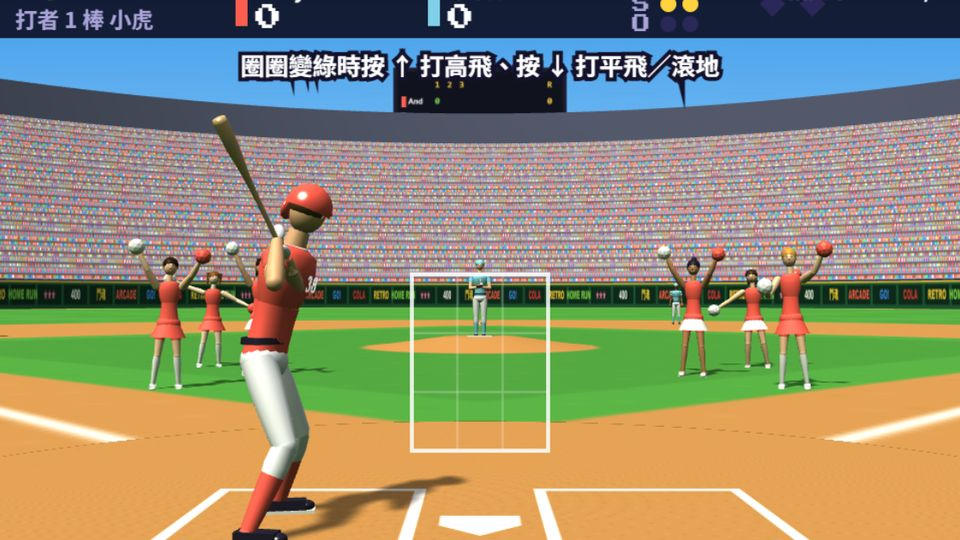
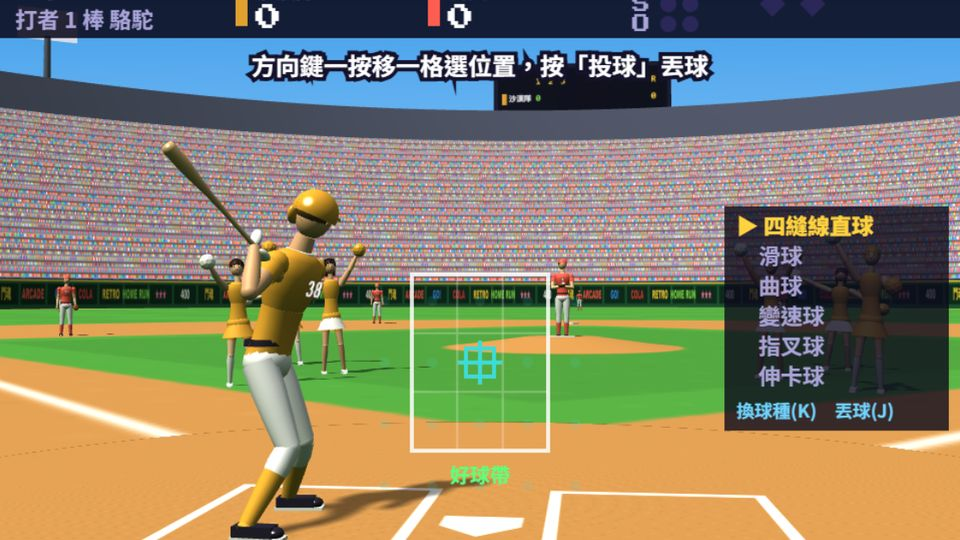
鬥魂棒球：打擊動作更自然（後腳原地轉、前腳踏步撐直、膝蓋內收、球棒斜放後肩）、每隊 2/4/7 棒左打、鏡頭偏向打者正面 (v316)

diff --git a/baseball3d.js b/baseball3d.js
@@ -97,13 +97,13 @@ function make(T,o){ const {W,H,ZX,ZY,ZW,ZH,L,fence,FPOS,BASE,kfBK}=o,PI=Math.PI,
     else { P.shL=[-.2,0,1.5+s*.55]; P.elL=[-.3,0,0]; P.shR=[-.2,0,-1.5+s*.55]; P.elR=[-.3,0,0]; if(big){ P.hipL=[-.08-.75*Math.max(0,-s),0,.1]; P.knL=[.12+.8*Math.max(0,-s),0,0]; } }
     H3.pose(E.h.J,P); E.g.rotation.y=yaw; E.g.visible=true; }
   let CH=[];
-  let teamKey='',FL=[],RN=[],BT=null,bat=null,pball=null,ghosts=[];
+  let teamKey='',FL=[],RN=[],BT=null,bat=null,pball=null,ghosts=[]; const MIR=new T.Group(); scene.add(MIR);
   function teamsFor(fc,bc){ const k=fc+'|'+bc; if(k===teamKey) return; teamKey=k;
-    for(const e of FL.concat(RN,BT?[BT]:[])) scene.remove(e.g);
+    for(const e of FL.concat(RN)) scene.remove(e.g); if(BT) MIR.remove(BT.g);
     for(const e of CH) scene.remove(e.g); CH=CHS.map((q,i)=>mkCheer(bc,q,i));
-    FL=FPOS.map((p,i)=>mkPlayer(fc,i,'fld')); RN=[0,1,2,3].map(i=>mkPlayer(bc,i+2,'run')); BT=mkPlayer(bc,5,'bat');
+    FL=FPOS.map((p,i)=>mkPlayer(fc,i,'fld')); RN=[0,1,2,3].map(i=>mkPlayer(bc,i+2,'run')); BT=mkPlayer(bc,5,'bat'); scene.remove(BT.g); MIR.add(BT.g); BT.g.traverse(m=>{ if(m.isMesh&&m.material&&m.material.map&&m.geometry&&m.geometry.type==='PlaneGeometry') BT.numMap=m.material.map; });
     pball=add(new T.SphereGeometry(.045,10,8),ph('#ffffff',30),0,-.08,.06,FL[0].h.J.hdR);
-    if(!bat){ const bg=new T.LatheGeometry([[.001,0],[.024,0],[.024,.012],[.012,.03],[.012,.42],[.017,.56],[.032,.72],[.034,.84],[.03,.862],[.001,.868]].map(q=>new T.Vector2(q[0],q[1])),14); const bm=ph('#d8b07a',70); bm.side=T.DoubleSide; bat=add(bg,bm,0,0,0); ghosts=[.28,.16].map(a=>{ const m=new T.Mesh(bg,new T.MeshBasicMaterial({color:0xfff2d0,transparent:true,opacity:a,depthWrite:false,side:T.DoubleSide})); m.visible=false; scene.add(m); return m; }); } }
+    if(!bat){ const bg=new T.LatheGeometry([[.001,0],[.024,0],[.024,.012],[.012,.03],[.012,.42],[.017,.56],[.032,.72],[.034,.84],[.03,.862],[.001,.868]].map(q=>new T.Vector2(q[0],q[1])),14); const bm=ph('#d8b07a',70); bm.side=T.DoubleSide; bat=add(bg,bm,0,0,0); scene.remove(bat); MIR.add(bat); ghosts=[.28,.16].map(a=>{ const m=new T.Mesh(bg,new T.MeshBasicMaterial({color:0xfff2d0,transparent:true,opacity:a,depthWrite:false,side:T.DoubleSide})); m.visible=false; MIR.add(m); return m; }); } }
   const ball=add(new T.SphereGeometry(.05,16,12),ph('#ffffff',40,{emissive:0x555555}),0,1,0); const bshadow=add(new T.CircleGeometry(.06,16),new T.MeshBasicMaterial({color:0,transparent:true,opacity:.3,depthWrite:false}),0,.01,0); bshadow.rotation.x=-PI/2; bshadow.castShadow=false;
   const ss=x=>x*x*(3-2*x),lerp=(a,b,k)=>a+(b-a)*k,cl=(v,a,b)=>v<a?a:v>b?b:v;
   function frames(F,p){ let i=0; while(i<F.length-2&&p>F[i+1][0]) i++; const A=F[i],B=F[i+1],k=ss(cl((p-A[0])/((B[0]-A[0])||1),0,1)); return [A[1],B[1],k]; }
@@ -131,45 +131,47 @@ function make(T,o){ const {W,H,ZX,ZY,ZW,ZH,L,fence,FPOS,BASE,kfBK}=o,PI=Math.PI,
   const BXP=-1.12,BZP=.05;
   // 打擊分解動作（x 朝本壘板、z 朝捕手、-z 朝投手）：站穩→抬前腳蓄力→踏步、髖先轉→轉肩、手帶棒→擊球點雙臂伸直→收棒到肩後
   // pv 骨盆位置、py 骨盆轉、sy 上身再多轉、lean 前傾；h 下面那隻手的位置；L／R 前後腳踝，th 腳尖方向，pt 腳跟抬起
-  const SWF=[[-1,{pv:[0,.84,.06],py:0,sy:-.2,lean:.34,h:[.12,1.4,.38],L:[0,.078,-.34],Lt:1.72,Lp:0,R:[0,.078,.36],Rt:1.42,Rp:0}],
-    [0,{pv:[-.01,.86,.14],py:-.2,sy:-.42,lean:.32,h:[.08,1.41,.42],L:[.0,.17,-.44],Lt:1.6,Lp:-.2,R:[0,.078,.36],Rt:1.42,Rp:0}],
-    [.16,{pv:[.01,.81,-.03],py:.42,sy:-.14,lean:.24,h:[.27,1.08,.22],L:[-.02,.078,-.64],Lt:1.95,Lp:0,R:[0,.085,.36],Rt:1.6,Rp:.12}],
-    [.32,{pv:[.04,.81,-.14],py:.92,sy:.34,lean:.22,h:[.62,.86,-.13],L:[-.02,.078,-.64],Lt:2.05,Lp:0,R:[-.02,.15,.3],Rt:2.35,Rp:.72}],
-    [.5,{pv:[.05,.83,-.17],py:1.2,sy:.62,lean:.16,h:[.5,1.12,-.5],L:[-.02,.078,-.64],Lt:2.15,Lp:0,R:[-.03,.17,.25],Rt:2.6,Rp:.85}],
-    [.75,{pv:[.04,.86,-.18],py:1.38,sy:.78,lean:.08,h:[.13,1.46,-.52],L:[-.02,.078,-.64],Lt:2.2,Lp:0,R:[-.03,.18,.2],Rt:2.75,Rp:.92}],
-    [1,{pv:[.03,.885,-.17],py:1.46,sy:.82,lean:.04,h:[-.2,1.5,-.24],L:[-.02,.078,-.64],Lt:2.2,Lp:0,R:[-.03,.18,.18],Rt:2.8,Rp:.92}]];
+  // 真實打擊：後腳原地不動，只轉腳尖、抬腳跟；前腳小抬腿再往投手方向踏一小步、擊球時撐直；髖先轉、肩膀跟上、最後收棒到前肩
+  const SWF=[[-1,{pv:[0,.87,.04],py:-.05,sy:-.16,lean:.3,h:[.1,1.36,.31],L:[0,.078,-.33],Lt:1.68,Lp:0,R:[0,.078,.35],Rt:1.5,Rp:0}],
+    [0,{pv:[-.01,.865,.1],py:-.2,sy:-.36,lean:.3,h:[.06,1.38,.38],L:[.02,.15,-.42],Lt:1.62,Lp:-.25,R:[0,.078,.35],Rt:1.5,Rp:0}],
+    [.16,{pv:[.01,.865,-.02],py:.4,sy:-.22,lean:.27,h:[.24,1.16,.26],L:[0,.078,-.6],Lt:1.85,Lp:0,R:[0,.078,.35],Rt:1.72,Rp:.22}],
+    [.32,{pv:[.03,.895,-.07],py:1.0,sy:.3,lean:.22,h:[.6,.88,-.12],L:[0,.078,-.6],Lt:1.95,Lp:0,R:[-.01,.1,.36],Rt:2.35,Rp:.62}],
+    [.5,{pv:[.04,.905,-.09],py:1.28,sy:.58,lean:.16,h:[.5,1.12,-.5],L:[0,.078,-.6],Lt:2.0,Lp:0,R:[-.02,.12,.34],Rt:2.6,Rp:.82}],
+    [.75,{pv:[.04,.91,-.1],py:1.42,sy:.76,lean:.1,h:[.12,1.46,-.5],L:[0,.078,-.6],Lt:2.05,Lp:0,R:[-.02,.13,.32],Rt:2.75,Rp:.95}],
+    [1,{pv:[.03,.915,-.1],py:1.48,sy:.82,lean:.06,h:[-.2,1.5,-.24],L:[0,.078,-.6],Lt:2.05,Lp:0,R:[-.02,.13,.31],Rt:2.8,Rp:1.0}]];
   const swAt=p=>{ const [A,B,k]=frames(SWF,p),o2={}; for(const n in A) o2[n]=Array.isArray(A[n])?lp3(A[n],B[n],k):lerp(A[n],B[n],k); return o2; };
   const batDirAt=(p,wag,cy)=>{ const J0=kfBK(p),a=J0.a+wag,e=J0.e+(p>.2&&p<.45?-cy*.25:0); return new V(Math.cos(e)*Math.cos(a),Math.sin(e),-Math.cos(e)*Math.sin(a)).normalize(); };
   const footQ=(th,pt)=>new T.Quaternion().setFromEuler(new T.Euler(pt,th,0,'YXZ'));
-  function batterPose(E,p,cy,t){ const F=swAt(p),J=E.h.J,breathe=p<=-.99?Math.sin(t*2.2)*.012:0,wag=p<=-.99?Math.sin(t*2.2)*.14:0;
+  function batterPose(E,p,cy,t,lefty){ MIR.scale.x=1; MIR.updateMatrixWorld(true); const F=swAt(p),J=E.h.J,breathe=p<=-.99?Math.sin(t*2.2)*.012:0,wag=p<=-.99?Math.sin(t*2.2)*.14:0;
     H3.pose(J,{spine:[F.lean,F.sy,0],pelvis:[0,F.py,0]}); J.pelvis.position.set(-F.pv[2],F.pv[1]+breathe,F.pv[0]);
     const tv=F.py+F.sy; J.neck.rotation.set(.08,cl(PI/2*.9-tv,-1.1,1.5),0); J.head.rotation.x=.1;
     E.g.position.set(BXP,0,BZP); E.g.rotation.y=PI/2; E.g.scale.setScalar(1); E.g.visible=true; E.g.updateMatrixWorld(true);
     const at=(q,dy)=>new V(BXP+q[0],q[1]+(dy||0),BZP+q[2]);
-    H3.ikLeg(T,J,'L',at(F.L),new V(Math.sin(F.Lt),0,Math.cos(F.Lt)),footQ(F.Lt,F.Lp)); H3.ikLeg(T,J,'R',at(F.R),new V(Math.sin(F.Rt)*1,-.1,Math.cos(F.Rt)),footQ(F.Rt,F.Rp));
+    const kL=F.Lt-.6,kR=F.Rt+.55; /* 膝蓋稍微往內收（運動員預備姿勢），不要 O 型腿 */ H3.ikLeg(T,J,'L',at(F.L),new V(Math.sin(kL),0,Math.cos(kL)),footQ(F.Lt,F.Lp)); H3.ikLeg(T,J,'R',at(F.R),new V(Math.sin(kR),-.1,Math.cos(kR)),footQ(F.Rt,F.Rp));
     const w=p>0&&p<.6?Math.sin(p/.6*PI):0,hd=F.h.slice(); hd[1]+=cy*ZH3*w+breathe; const d=batDirAt(p,wag,cy),K=at(hd);
     H3.ik(T,J,'L',K.clone().addScaledVector(d,.02),new V(.1,-1,-.35)); J.hdL.getWorldPosition(tmpV); const A=tmpV.clone(); H3.ik(T,J,'R',A.clone().addScaledVector(d,.1),new V(.05,-1,.55)); J.hdL.rotation.set(0,0,0);
     bat.visible=true; bat.position.copy(A).addScaledVector(d,-.1); bat.quaternion.setFromUnitVectors(new V(0,1,0),d);
-    ghosts.forEach((g,i)=>{ const pq=p-(i+1)*.05; g.visible=p>.1&&p<.62; if(!g.visible) return; const Fq=swAt(pq),dq=batDirAt(pq,0,cy),hq=Fq.h.slice(); hq[1]+=cy*ZH3*Math.sin(Math.max(0,pq)/.6*PI); g.position.copy(at(hq)).addScaledVector(dq,-.08); g.quaternion.setFromUnitVectors(new V(0,1,0),dq); }); }
+    ghosts.forEach((g,i)=>{ const pq=p-(i+1)*.05; g.visible=p>.1&&p<.62; if(!g.visible) return; const Fq=swAt(pq),dq=batDirAt(pq,0,cy),hq=Fq.h.slice(); hq[1]+=cy*ZH3*Math.sin(Math.max(0,pq)/.6*PI); g.position.copy(at(hq)).addScaledVector(dq,-.08); g.quaternion.setFromUnitVectors(new V(0,1,0),dq); });
+    MIR.scale.x=lefty?-1:1; MIR.updateMatrixWorld(true); if(E.numMap){ E.numMap.repeat.x=lefty?-1:1; E.numMap.offset.x=lefty?1:0; } }
   /* 鏡頭 */
-  const cam=new T.PerspectiveCamera(27,W/H,.1,900),CZ=5,CY=1.2,tp=new V();
+  const cam=new T.PerspectiveCamera(27,W/H,.1,900),CZ=5,CY=1.2,CX=.55,tp=new V(); // 鏡頭稍微偏一壘側，右打者看得到正面
   const proj=(x,y,z)=>{ tp.set(x,y,z).project(cam); return [(tp.x+1)/2*W,(1-tp.y)/2*H]; };
-  function pitchCam(){ // 校正：好球帶寬度對到 ZW、中心對到 ZY
-    let fov=27,ly=CY-.3; for(let it=0;it<8;it++){ cam.fov=fov; cam.position.set(0,CY,CZ); cam.lookAt(0,ly,-20); cam.updateProjectionMatrix(); cam.updateMatrixWorld(true);
-      const a=proj(-ZW3,ZC,0),b=proj(ZW3,ZC,0),c0=proj(0,ZC,0); const ww=b[0]-a[0]; fov=2*Math.atan(Math.tan(fov*PI/360)*ww/(ZW*2))*180/PI; ly-=(c0[1]-ZY)/25; } }
-  pitchCam(); const pcPos=cam.position.clone(),pcFov=cam.fov,pcQ=cam.quaternion.clone();
+  function pitchCam(CX){ // 校正：好球帶寬度對到 ZW、中心對到 ZX／ZY
+    let fov=27,ly=CY-.3,lx=CX; for(let it=0;it<10;it++){ cam.fov=fov; cam.position.set(CX,CY,CZ); cam.lookAt(lx,ly,-20); cam.updateProjectionMatrix(); cam.updateMatrixWorld(true);
+      const a=proj(-ZW3,ZC,0),b=proj(ZW3,ZC,0),c0=proj(0,ZC,0); const ww=b[0]-a[0]; fov=2*Math.atan(Math.tan(fov*PI/360)*ww/(ZW*2))*180/PI; ly-=(c0[1]-ZY)/25; lx+=(c0[0]-ZX)/25; } }
+  const PC=[CX,-CX].map(x=>{ pitchCam(x); return {pos:cam.position.clone(),fov:cam.fov,q:cam.quaternion.clone()}; }); // [右打用, 左打用]
   let lastT=null,view='pitch',fLook=new V(0,0,-50),fPos=new V(0,46,30),hid=new V(0,-50,0);
   function hideAll(){ for(const e of FL.concat(RN,CH)) e.g.visible=false; for(const g of ghosts) g.visible=false; if(BT) BT.g.visible=false; if(bat) bat.visible=false; }
   return {canvas:cv,
     toScreen:(x,y,z)=>proj(x,y,z),
     // 投打畫面：pp 投手動作、bp 揮棒、pit 這一球、cy 打者瞄準高度
     pitch(st){ const {t,fc,bc,pp,bp,cy,pit,showBall,cheer}=st; board(st.board); const dt=lastT==null?.016:cl(t-lastT,0,.1); lastT=t; teamsFor(fc,bc); hideAll(); view='pitch';
-      cam.position.copy(pcPos); cam.quaternion.copy(pcQ); cam.fov=pcFov; cam.updateProjectionMatrix(); sun.target.position.set(0,0,-10); sun.position.set(night?5:-20,night?60:sunset?22:50,night?25:28);
+      const pc=PC[st.lefty?1:0]; cam.position.copy(pc.pos); cam.quaternion.copy(pc.q); cam.fov=pc.fov; cam.updateProjectionMatrix(); sun.target.position.set(0,0,-10); sun.position.set(night?5:-20,night?60:sunset?22:50,night?25:28);
       if(st.cam){ cam.position.set(...st.cam[0]); cam.lookAt(...st.cam[1]); cam.fov=st.cam[2]||30; cam.updateProjectionMatrix(); } /* 測試用：換個角度看 */
       crowdT.offset.y=cheer?Math.abs(Math.sin(t*9))*.012:0;
       pitcherPose(FL[0],pp,dt); pball.visible=pp<.78;
       for(let i=2;i<9;i++){ const q=FPOS[i]; place(FL[i],q[0]*FT,-q[1]*FT,Math.atan2(0-q[0]*FT,0+q[1]*FT),poseOf(pp>.6&&pp<1||pit?'ready':'stand',t,i),dt); }
-      batterPose(BT,bp,cy||0,t);
+      batterPose(BT,bp,cy||0,t,!!st.lefty);
       for(const E of CH){ E.g.position.set(E.q.at[0],0,E.q.at[1]); dance(E,t,cheer,E.q.at[0]<0?.35:-.35); }
       // 球：投手出手後才離手，飛到好球帶的目標位置（含變化球的位移）
       let bs=null; ball.visible=false; bshadow.visible=false;

diff --git a/baseball.js b/baseball.js
@@ -116,8 +116,8 @@ function kf(frames,p){
 }
 // 打者（右打，從捕手後面看）：p<0 準備（-1 站好、0 跨步完成），0~1 揮棒（.32 擊球點）
 const BK=[
-  [-1,{hip:[-1,-45],sh:[2,-73],head:[7,-86],fB:[-17,0],fF:[14,0],h:[-9,-75],a:-2.25,e:.95,tw:0}],
-  [0,{hip:[-4,-46],sh:[-1,-74],head:[5,-86],fB:[-17,0],fF:[9,-8],h:[-14,-77],a:-2.4,e:1.0,tw:-.2}],
+  [-1,{hip:[-1,-45],sh:[2,-73],head:[7,-86],fB:[-17,0],fF:[14,0],h:[-9,-75],a:-2.3,e:.74,tw:0}],
+  [0,{hip:[-4,-46],sh:[-1,-74],head:[5,-86],fB:[-17,0],fF:[9,-8],h:[-14,-77],a:-2.45,e:.8,tw:-.2}],
   [.16,{hip:[1,-44],sh:[3,-72],head:[6,-85],fB:[-17,0],fF:[21,0],h:[-6,-68],a:-2.85,e:.3,tw:.2}],
   [.32,{hip:[5,-44],sh:[7,-71],head:[8,-84],fB:[-15,-3],fF:[22,0],h:[13,-61],a:.05,e:-.1,tw:.6}],
   [.5,{hip:[6,-45],sh:[8,-72],head:[8,-85],fB:[-12,-6],fF:[22,0],h:[19,-66],a:1.3,e:.15,tw:.9}],
@@ -261,6 +261,7 @@ function create(env,opts){
       swung=go?{dt:gauss()*(.075-.035*lv)/b.con,up:rnd()<.3+lv*.25?1:0,at:p.T}:null; }
   }
   function dOutBy(txt){ dOut++; sfx('bump'); banner(txt+'　剩 '+(DOUTS-dOut)+' 球',1.3); endBat(); }
+  const LEFTY=[1,3,6],lefty=()=>LEFTY.includes(S.ord[S.half]%9); // 每隊第 2、4、7 棒是左打
   function resolve(sw){ // 這一球的結果：時機準不準＋對方投的位置和球種，決定擊球品質
     const p=S.pit,b=batter(),inZ=Math.abs(p.ax)<=1&&Math.abs(p.ay)<=1;
     if(DERBY&&!sw){ banner('沒揮棒（不算出局）',.8); nextPitch(.8); return; }
@@ -269,7 +270,7 @@ function create(env,opts){
     const locP=Math.max(0,Math.min(edge,1)-.45)*.3+Math.max(0,edge-1)*.85,brk=Math.hypot(q0.bx,q0.by)*.07;
     const q=1-Math.abs(sw.dt)/WIN*.75-locP-brk+(b.con-1)*.25+gauss()*.04+(DERBY?.05:0);
     if(Math.abs(sw.dt)>WIN||q<=.05){ if(DERBY){ dOutBy('揮棒落空'); return; } strike('揮棒落空！',true); return; }
-    let sa=sw.dt/WIN*36+gauss()*8;
+    let sa=sw.dt/WIN*36+gauss()*8; if(lefty()) sa=-sa; // 左打拉打方向相反（往右外野）
     if(q>.7){ const gaps=[-40,-16,16,40],g=gaps.reduce((a,c)=>Math.abs(c-sa)<Math.abs(a-sa)?c:a); sa+=(g-sa)*Math.min(1,(q-.7)/.3)*.6; } // 打得好，比較容易打到空檔
     let la,evo;
     if(sw.up){ if(q>=.5){ la=24+(.8-Math.min(q,.8))*60+gauss()*3; evo=60+56*q*b.pow; } else { la=46+rnd()*20; evo=55+40*q; } } // ↑：高飛球，打越準飛越遠
@@ -518,7 +519,7 @@ function create(env,opts){
     if(S.phase==='sel') swDone=false;
     let bp=-1; if(S.swing>0){ const e=SW-S.swing; bp=e<.06?e/.06*.32:.32+(e-.06)/(SW-.06)*.68; swDone=true; } else if(swDone) bp=1; else if(p&&S.phase==='pitch') bp=-1+clamp(u/.6,0,1);
     if(hitU>=0&&S.swing<=0) bp=1; /* 擊中後：收棒姿勢 */
-    let b3=null; if(G3){ b3=G3.pitch({t,fc,bc,pp,bp,cy,pit:p?{u,ax:p.ax,ay:p.ay,bx:PITCH[p.type].bx,by:PITCH[p.type].by}:null,showBall:!!p&&S.phase==='pitch'&&hitU<0,cheer:cheerT>0,board:{n:N,line:S.line,sc:S.sc,inn:S.inn,half:S.half,cols,names:tname}}); ctx.drawImage(G3.canvas,0,0,W,H); }
+    let b3=null; if(G3){ b3=G3.pitch({t,fc,bc,pp,bp,cy,lefty:lefty(),pit:p?{u,ax:p.ax,ay:p.ay,bx:PITCH[p.type].bx,by:PITCH[p.type].by}:null,showBall:!!p&&S.phase==='pitch'&&hitU<0,cheer:cheerT>0,board:{n:N,line:S.line,sc:S.sc,inn:S.inn,half:S.half,cols,names:tname}}); ctx.drawImage(G3.canvas,0,0,W,H); }
     else { stadium(ctx,L,t); fig(ctx,W/2,153,.42,1,kf(PK,pp),fc,{front:1,glove:'F',ball:pp<.78?'B':null}); }
     // 好球帶
     ctx.strokeStyle='rgba(255,255,255,.85)'; ctx.lineWidth=2; ctx.strokeRect(ZX-ZW,ZY-ZH,ZW*2,ZH*2); ctx.strokeStyle='rgba(255,255,255,.25)'; ctx.lineWidth=1;
@@ -529,10 +530,10 @@ function create(env,opts){
     if(showPit){ ctx.fillStyle='rgba(61,219,217,.12)'; for(let i=-2;i<=2;i++) for(let j=-2;j<=2;j++){ ctx.beginPath(); ctx.arc(ZX+i*.7*ZW,ZY-j*.7*ZH,2.5,0,7); ctx.fill(); }
       const inZ=Math.abs(tx)<=1&&Math.abs(ty)<=1; ctx.font='700 10px '+TC; ctx.textAlign='center'; ctx.fillStyle=inZ?'#5fff7a':'#ff9d9d'; ctx.fillText(inZ?'好球帶':'好球帶外',ZX,ZY+ZH+12);
       const x=ZX+tx*ZW,y=ZY-ty*ZH; ctx.strokeStyle='#3ddbd9'; ctx.lineWidth=2; ctx.strokeRect(x-7,y-7,14,14); ctx.beginPath(); ctx.moveTo(x-11,y); ctx.lineTo(x+11,y); ctx.moveTo(x,y-11); ctx.lineTo(x,y+11); ctx.stroke();
-      ctx.fillStyle='rgba(11,10,28,.8)'; ctx.fillRect(W-118,118,112,PITCH.length*15+22); ctx.textAlign='left'; ctx.textBaseline='middle';
-      PITCH.forEach((q,i)=>{ ctx.font=(i===ptype?'900 ':'700 ')+'11px '+TC; ctx.fillStyle=i===ptype?'#ffd23f':'#aaa4d8'; ctx.fillText((i===ptype?'▶ ':'　')+q.name,W-112,128+i*15); });
+      const MX=lefty()?6:W-118; /* 左打站右邊，選單移到左邊才不會擋到打者 */ ctx.fillStyle='rgba(11,10,28,.8)'; ctx.fillRect(MX,118,112,PITCH.length*15+22); ctx.textAlign='left'; ctx.textBaseline='middle';
+      PITCH.forEach((q,i)=>{ ctx.font=(i===ptype?'900 ':'700 ')+'11px '+TC; ctx.fillStyle=i===ptype?'#ffd23f':'#aaa4d8'; ctx.fillText((i===ptype?'▶ ':'　')+q.name,MX+6,128+i*15); });
       { const c0=client?'k0':ctl(fldTeam()),ky=env.touch?['','']:c0==='k1'?['(G)','(F)']:c0==='k2'?['(.)','(,)']:['(K)','(J)']; /* 按鍵提示：換球種、丟球 */
-        ctx.font='700 9px '+TC; ctx.fillStyle='#6fd3ff'; ctx.fillText('換球種'+ky[0]+'　丟球'+ky[1],W-112,128+PITCH.length*15+2); } }
+        ctx.font='700 9px '+TC; ctx.fillStyle='#6fd3ff'; ctx.fillText('換球種'+ky[0]+'　丟球'+ky[1],MX+6,128+PITCH.length*15+2); } }
     // 球：一開始偏離位移量，越接近本壘越彎進去
     if(p&&S.phase==='pitch'){ const q=PITCH[p.type],uu=Math.min(1.15,u),fxp=ZX+p.ax*ZW,fyp=ZY-p.ay*ZH,bxp=q.bx*ZW,byp=-q.by*ZH,k=Math.min(1,uu);
       let x=W/2+(fxp-bxp-W/2)*k+bxp*k*k,y=128+(fyp-byp-128)*k+byp*k*k,r=2+7*Math.pow(k,1.6);
@@ -640,7 +641,7 @@ function create(env,opts){
     // 計分列
     ctx.fillStyle='rgba(11,10,28,.88)'; ctx.fillRect(0,0,W,34); ctx.textBaseline='middle';
     ctx.textAlign='left'; ctx.font='700 11px '+TC; ctx.fillStyle='#ffd23f'; ctx.fillText((S.inn>N?'延長 ':'')+S.inn+' 局'+(S.half?'下':'上'),8,10);
-    ctx.fillStyle='#aaa4d8'; ctx.fillText('打者 '+(S.ord[S.half]%9+1)+' 棒 '+batter().name,8,25);
+    ctx.fillStyle='#aaa4d8'; ctx.fillText('打者 '+(S.ord[S.half]%9+1)+' 棒 '+batter().name+(lefty()?'（左打）':''),8,25);
     for(let tm=0;tm<2;tm++){ const x=118+tm*96; ctx.fillStyle=cols[tm]; ctx.fillRect(x,6+0,6,22); ctx.fillStyle=S.half===tm?'#fff':'#aaa4d8'; ctx.font='700 10px '+TC; ctx.textAlign='left'; ctx.fillText(tname[tm].slice(0,5),x+10,10); ctx.font='13px '+PIX; ctx.fillStyle='#fff'; ctx.fillText(String(S.sc[tm]),x+10,24); }
     const lamp=(lbl,n,max,col,y)=>{ ctx.font='9px '+PIX; ctx.textAlign='left'; ctx.fillStyle='#aaa4d8'; ctx.fillText(lbl,316,y); for(let i=0;i<max;i++){ ctx.fillStyle=i<n?col:'#2b2759'; ctx.beginPath(); ctx.arc(334+i*11,y,4,0,7); ctx.fill(); } };
     lamp('B',S.b,3,'#86dc4f',7); lamp('S',S.s,2,'#ffd23f',17); lamp('O',S.outs,2,'#ff5d8f',27);

diff --git a/index.html b/index.html
@@ -298,7 +298,7 @@ body.padswap #pad{flex-direction:row-reverse} /* 方向鍵放右邊 */
 <div id="modal" hidden><div class="card" id="mcard"></div></div>
 
 <script>
-window.ARCADE_V=314; // 每次改版加一
+window.ARCADE_V=316; // 每次改版加一
 (function(){ var q=/github\.io$/.test(location.hostname)?'?v='+window.ARCADE_V:'';
   document.write(['stairs','kart','bomb','volley','dodge3d','dodge','soccer3d','soccer','bowl3d','bowl','baseball3d','baseball','purple','rummy','mahjong','meow','poker','dice','deliver3d','deliver','chess','qi','racer','brawl','bball3d','bball','h3d','golf3d','golf','pool3d','pool','blocks','drum','dance','tower','jelly','rich','space','royale','draw','wolf','passbomb','bubble','claw','tank','dash','spin','night','chase3d','chase','sumo','sky','boxing','ace','classic','hide','spy','sling','room','boomcode','tug','truth','charades','party','gems','chair','tacit','piano','stroke','dragon','badminton','cook','fish','pickleball','tennis','pingpong','racket'].map(function(n){ return '<script src="'+n+'.js'+q+'"><\/script>'; }).join('')); })();
 </script>
